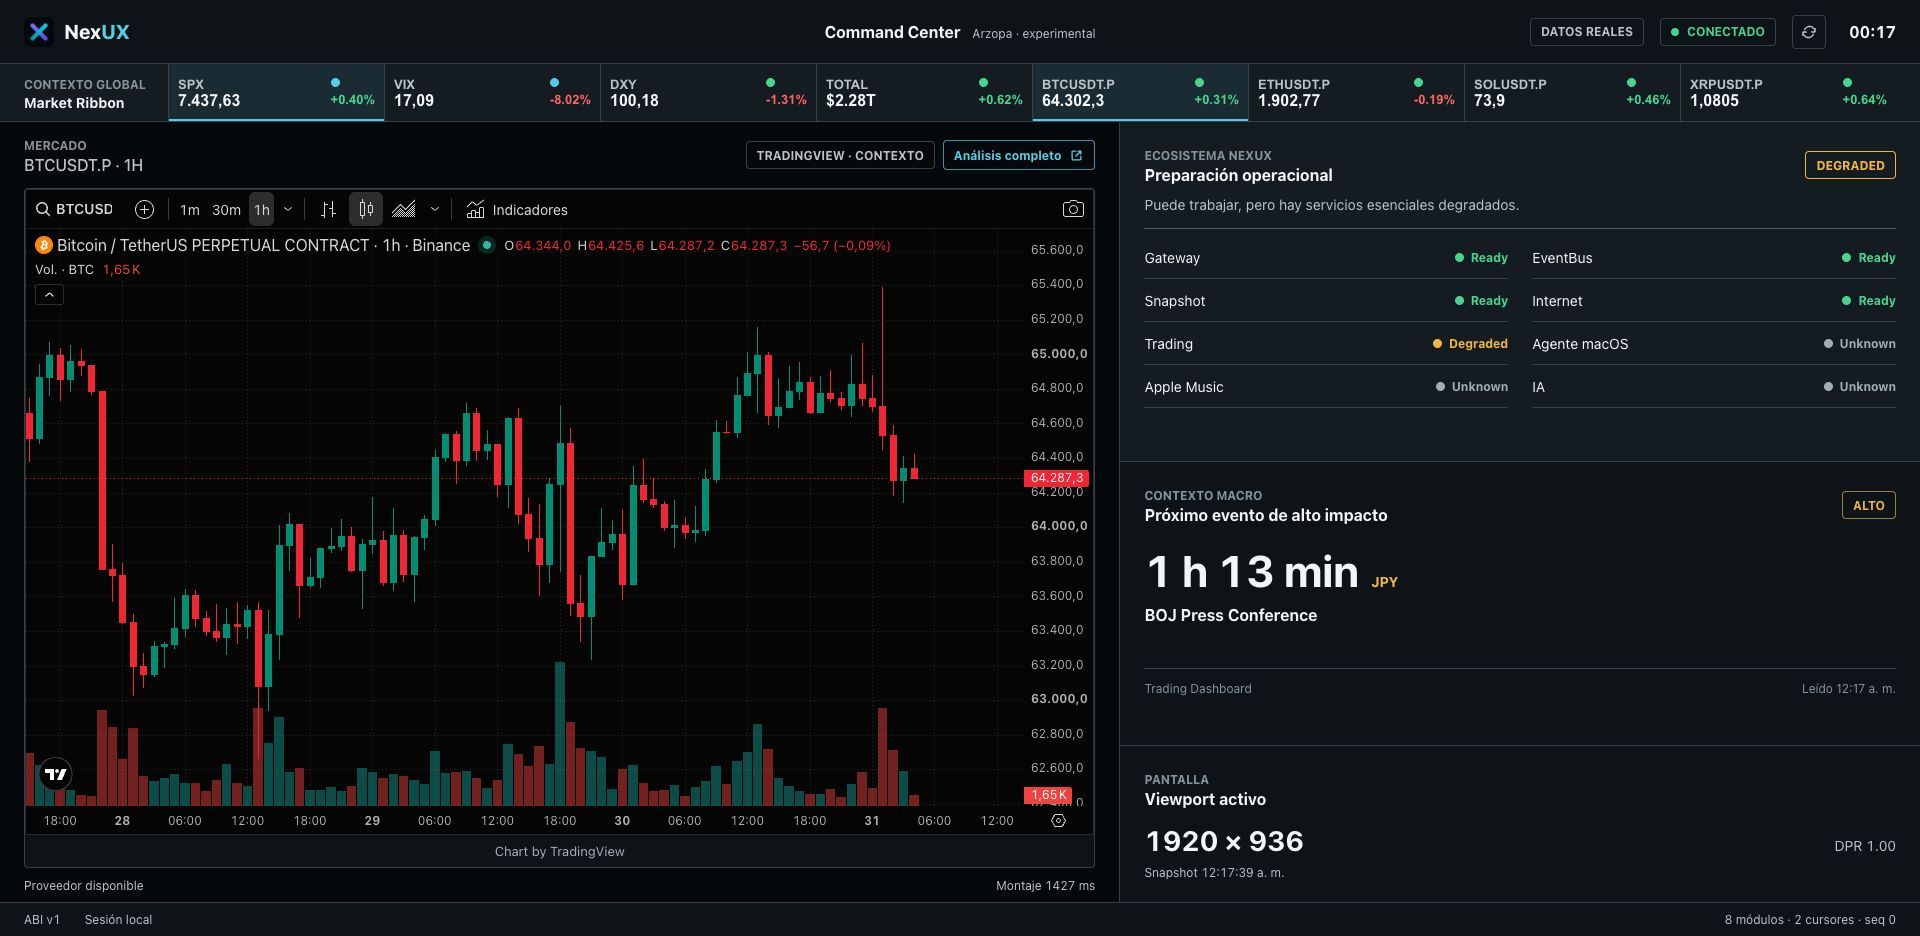
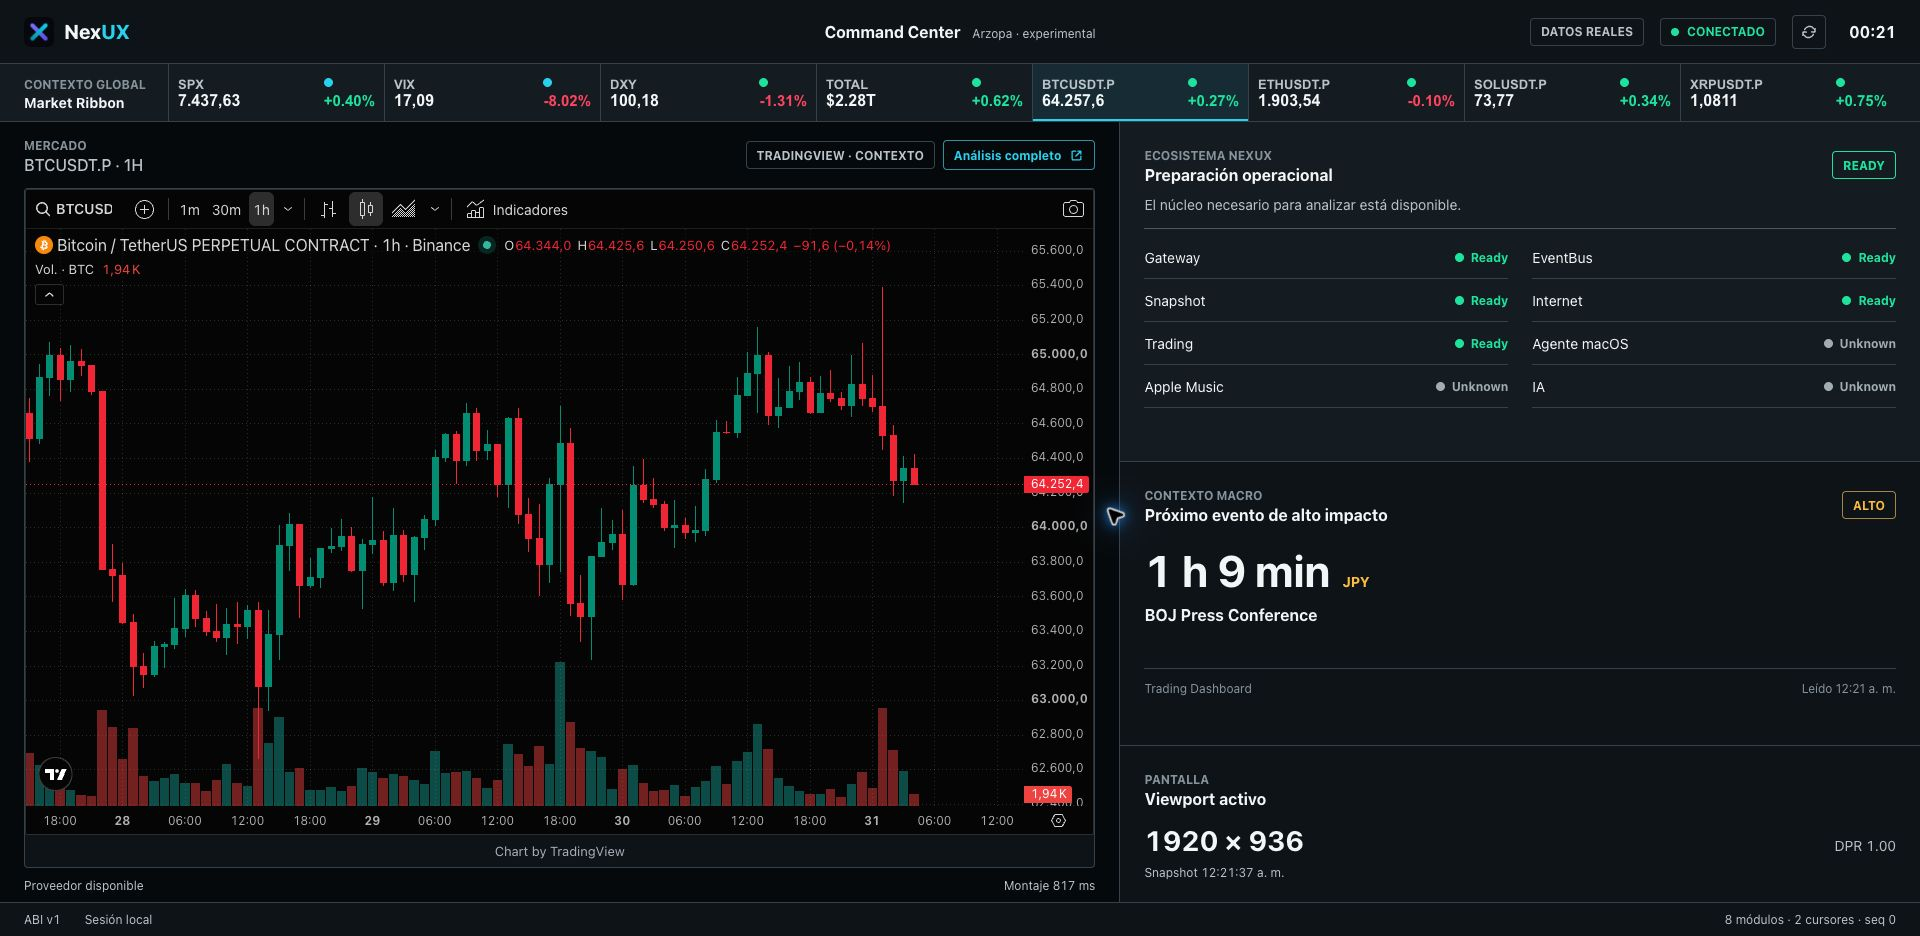
command-center: strengthen B4 visual contrast

diff --git a/modules/command_center/public/command-center.css b/modules/command_center/public/command-center.css
@@ -9,12 +9,12 @@
   --text-3: #929da5;
   --border: #46515a;
   --border-strong: #5a6670;
-  --info: #65d2e8;
-  --success: #56d99a;
-  --warning: #f2bd50;
-  --danger: #ff7272;
+  --info: #38d7f0;
+  --success: #2ee6a6;
+  --warning: #ffc44d;
+  --danger: #ff536e;
   --unknown: #aab4bb;
-  --focus: #8ed9e7;
+  --focus: #79e8f7;
   --space-1: 4px;
   --space-2: 8px;
   --space-3: 12px;
@@ -335,7 +335,7 @@ a:focus-visible {
 .market-change {
   align-self: start;
   color: var(--unknown);
-  font-size: 13px;
+  font-size: 15px;
   font-variant-numeric: tabular-nums;
   font-weight: 720;
 }

diff --git a/tests/test_command_center_b4_market_ribbon.py b/tests/test_command_center_b4_market_ribbon.py
@@ -218,6 +218,10 @@ def test_b4_reutiliza_banda_superior_y_seleccion_remonta_chart_provider() -> Non
     assert 'button.dataset.destination' in script
     assert 'asset.chartMode === "external_only"' in script
     assert "font-size: var(--font-md);" in css
+    assert ".market-change {" in css
+    assert "font-size: 15px;" in css
+    for color in ("#38d7f0", "#2ee6a6", "#ffc44d", "#ff536e"):
+        assert color in css
 
 
 def test_b4_documenta_val_0020_sin_cerrar_val_0019() -> None:

diff --git a/docs/DESIGN_SYSTEM_FOUNDATIONS.md b/docs/DESIGN_SYSTEM_FOUNDATIONS.md
@@ -126,9 +126,14 @@ La variación usa texto con signo y color semántico. La frescura usa un punto d
 es la única representación disponible. La selección activa usa `--info` y no
 altera la jerarquía de alertas del panel operacional.
 
-Símbolo y variación usan 13 px; precio usa 16 px. Las cápsulas externas no
+Símbolo usa 13 px, variación 15 px y precio 16 px. Las cápsulas externas no
 adoptan estado seleccionado: su hover indica que abren una superficie nueva y
 el gráfico integrado permanece en el último perpetuo elegido.
+
+La calibración Arzopa aumenta moderadamente la saturación de los cuatro colores
+semánticos (`info`, `success`, `warning`, `danger`) sin aclarar fondos ni ampliar
+superficies coloreadas. La intensidad comunica estado; la luminancia general
+permanece contenida para uso prolongado.
 
 En el Arzopa objetivo los ocho referentes ocupan una sola fila. Los breakpoints
 de cuatro y dos columnas son únicamente adaptaciones funcionales para viewports

diff --git a/docs/VALIDATION_LOG.md b/docs/VALIDATION_LOG.md
@@ -694,7 +694,9 @@ honestamente el último cierre de un índice sin llamarlo live.
 - API autenticada y exclusivamente GET.
 - Los símbolos externos no aparecen en el mapa estático del adaptador, por lo que
   una regresión no puede volver a montarlos accidentalmente.
-- Símbolo y variación usan 13 px; precio 16 px.
+- Símbolo usa 13 px, variación 15 px y precio 16 px.
+- Los colores semánticos aumentan saturación sin modificar fondos, densidad ni
+  composición.
 - Viewport 1920 × 936 sin overflow; banda 1920 × 58 px.
 - Suite completa: 768 pruebas aprobadas.
 - Wire ABI, fingerprint, EventBus, Gateway, runtime y factories preservados.
